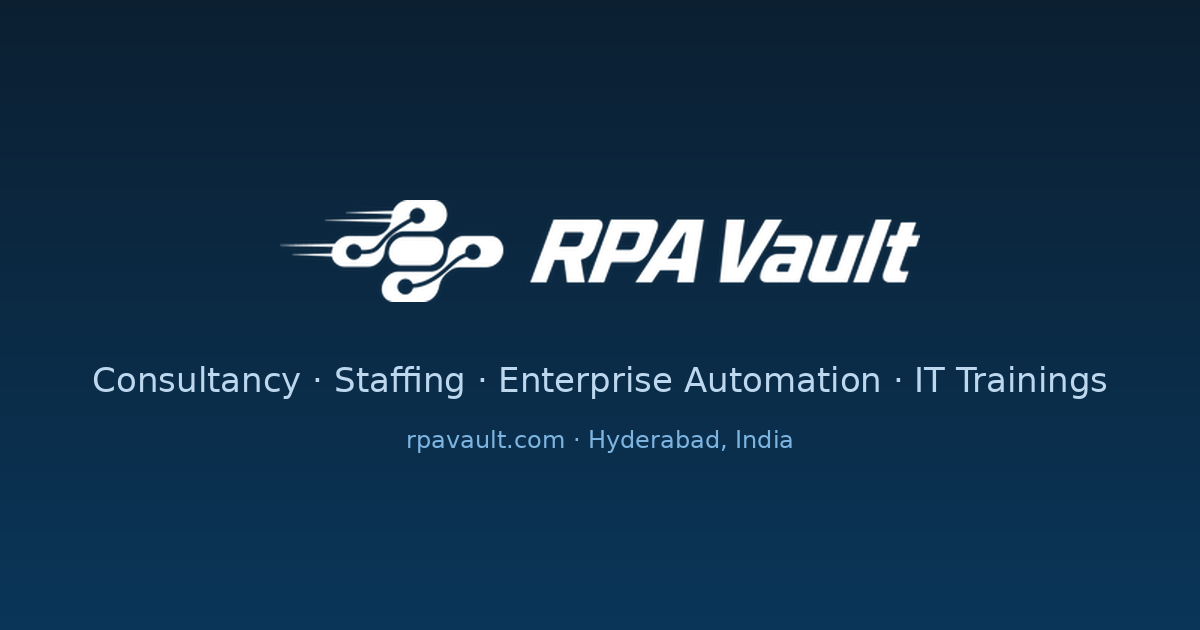
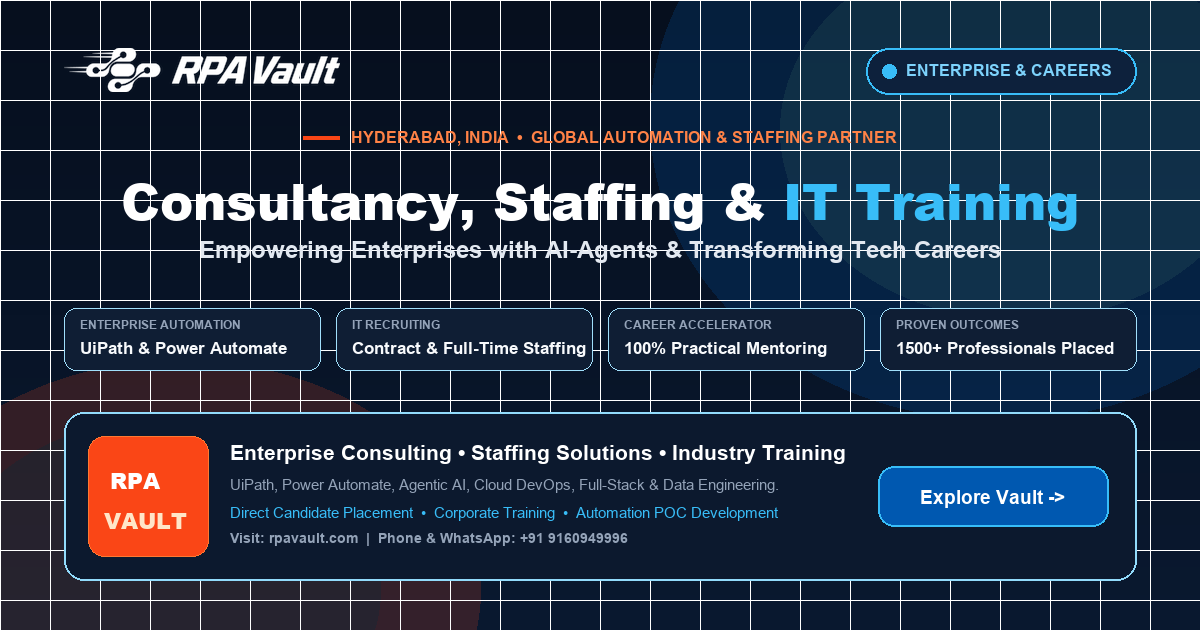
feat(og-image): add dedicated WhatsApp OG share cards for chat and site-wide

diff --git a/_includes/layouts/base.html b/_includes/layouts/base.html
@@ -10,7 +10,7 @@
   {% set rawShareImage = "/assets/images/courses/" + course_slug + ".jpg" %}
 {% endif %}
 {% if not rawShareImage %}
-  {% set rawShareImage = "/assets/images/og-image.png" %}
+  {% set rawShareImage = "/assets/images/og-image.jpg" %}
 {% endif %}
 {# Convert any .webp or .svg image to .jpg for WhatsApp & social Open Graph crawlers #}
 {% set shareImage = rawShareImage | replace('.webp', '.jpg') | replace('.svg', '.png') %}
@@ -50,6 +50,8 @@
 <meta property="og:image:width" content="1200">
 <meta property="og:image:height" content="630">
 <meta property="og:image:alt" content="{{ pageTitle }}">
+<meta itemprop="image" content="{{ absoluteShareImage }}">
+<link rel="image_src" href="{{ absoluteShareImage }}">
 <meta name="twitter:card" content="summary_large_image">
 <meta name="twitter:title" content="{{ pageTitle }}">
 <meta name="twitter:description" content="{{ pageDesc }}">

diff --git a/chatbot/index.html b/chatbot/index.html
@@ -8,7 +8,7 @@ seo_description: Talk with RPAVault AI. Get instant answers on Enterprise Automa
 canonical_url: https://rpavault.com/chat/
 keywords: RPAVault AI, RPA chatbot, UiPath career counselor, Agentic AI training, RPA course fees, IT career transition guidance, enterprise automation consulting, Hyderabad
 og_type: website
-og_image: /assets/images/og-image.png
+og_image: /assets/images/og-chat.jpg
 schema_ld: |
   {
     "@context": "https://schema.org",

diff --git a/scripts/generate_og_chat.py b/scripts/generate_og_chat.py
@@ -1,0 +1,185 @@
+import os
+from PIL import Image, ImageDraw, ImageFont
+
+def generate_og_chat():
+    width = 1200
+    height = 630
+    
+    # 1. Base image with gradient
+    img = Image.new("RGBA", (width, height), (6, 15, 30, 255))
+    draw = ImageDraw.Draw(img)
+
+    # Vertical gradient
+    for y in range(height):
+        r = int(6 + (10 - 6) * (y / height))
+        g = int(15 + (25 - 15) * (y / height))
+        b = int(30 + (48 - 30) * (y / height))
+        draw.line([(0, y), (width, y)], fill=(r, g, b, 255))
+
+    # Glow spheres
+    # Top-right blue/cyan glow
+    glow_blue = Image.new("RGBA", (width, height), (0, 0, 0, 0))
+    gb_draw = ImageDraw.Draw(glow_blue)
+    gb_draw.ellipse([650, -180, 1350, 420], fill=(0, 88, 176, 55))
+    gb_draw.ellipse([780, -60, 1260, 320], fill=(56, 189, 248, 45))
+    img = Image.alpha_composite(img, glow_blue)
+
+    # Bottom-left emerald & cyan glow (representing live online chat status)
+    glow_green = Image.new("RGBA", (width, height), (0, 0, 0, 0))
+    gg_draw = ImageDraw.Draw(glow_green)
+    gg_draw.ellipse([-120, 360, 480, 820], fill=(16, 185, 129, 35))
+    gg_draw.ellipse([-60, 420, 380, 760], fill=(56, 189, 248, 30))
+    img = Image.alpha_composite(img, glow_green)
+
+    draw = ImageDraw.Draw(img)
+
+    # Grid lines pattern
+    for x in range(0, width, 50):
+        draw.line([(x, 0), (x, height)], fill=(255, 255, 255, 7))
+    for y in range(0, height, 50):
+        draw.line([(0, y), (width, y)], fill=(255, 255, 255, 7))
+
+    # Fonts
+    font_dir = "/System/Library/Fonts/Supplemental/"
+    font_arial_bold = font_dir + "Arial Bold.ttf"
+    font_arial_black = font_dir + "Arial Black.ttf"
+    font_arial_regular = font_dir + "Arial.ttf"
+
+    f_sub = ImageFont.truetype(font_arial_bold, 16)
+    f_title1 = ImageFont.truetype(font_arial_black, 52)
+    f_tagline = ImageFont.truetype(font_arial_bold, 24)
+    f_box_title = ImageFont.truetype(font_arial_bold, 21)
+    f_box_sub = ImageFont.truetype(font_arial_regular, 15)
+    f_badge = ImageFont.truetype(font_arial_bold, 16)
+    f_btn = ImageFont.truetype(font_arial_bold, 19)
+
+    # 2. Add RPAVault Logo at Top Left
+    logo_path = "assets/images/logo-rpavault-white.png"
+    if os.path.exists(logo_path):
+        logo = Image.open(logo_path).convert("RGBA")
+        w, h = logo.size
+        new_h = 44
+        new_w = int(w * (new_h / h))
+        logo = logo.resize((new_w, new_h), Image.Resampling.LANCZOS)
+        img.paste(logo, (64, 48), logo)
+    else:
+        draw.text((64, 48), "RPAVAULT", fill=(255, 255, 255), font=f_title1)
+
+    # 3. Online 24/7 Live AI Badge at top right
+    badge_w = 300
+    badge_x = width - 64 - badge_w
+    badge_y = 48
+    badge_h = 46
+    draw.rounded_rectangle([badge_x, badge_y, badge_x + badge_w, badge_y + badge_h], radius=23, fill=(13, 33, 60), outline=(56, 189, 248), width=2)
+    # Emerald green live dot
+    draw.ellipse([badge_x + 16, badge_y + 16, badge_x + 30, badge_y + 30], fill=(16, 185, 129))
+    draw.text((badge_x + 40, badge_y + 13), "ONLINE • 24/7 AI COUNSELOR", fill=(125, 211, 252), font=f_badge)
+
+    # 4. Kicker Pill / Accent Line (Centered)
+    kicker_text = "ENTERPRISE AUTOMATION  •  IT CONSULTING  •  CAREER TRANSITION"
+    bbox_k = f_sub.getbbox(kicker_text)
+    k_w = bbox_k[2] - bbox_k[0]
+    line_w = 36
+    k_gap = 12
+    total_k_w = line_w + k_gap + k_w
+    start_k_x = (width - total_k_w) // 2
+    draw.line([(start_k_x, 137), (start_k_x + line_w, 137)], fill=(56, 189, 248), width=4)
+    draw.text((start_k_x + line_w + k_gap, 128), kicker_text, fill=(56, 189, 248), font=f_sub)
+
+    # 5. Main Headline: "Chat with RPAVault AI"
+    part1 = "Chat with "
+    part2 = "RPAVault AI"
+    bbox_p1 = f_title1.getbbox(part1)
+    bbox_p2 = f_title1.getbbox(part2)
+    p1_w = bbox_p1[2] - bbox_p1[0]
+    p2_w = bbox_p2[2] - bbox_p2[0]
+    head_w = p1_w + p2_w
+    start_h_x = (width - head_w) // 2
+
+    draw.text((start_h_x, 164), part1, fill=(255, 255, 255), font=f_title1)
+    draw.text((start_h_x + p1_w, 164), part2, fill=(56, 189, 248), font=f_title1)
+
+    # Subtitle: "Instant Guidance on UiPath, Power Automate, Course Fees & Roadmaps"
+    sub_text = "Instant Guidance on UiPath, Power Automate, Course Fees & Roadmaps"
+    bbox_sub = f_tagline.getbbox(sub_text)
+    sub_w = bbox_sub[2] - bbox_sub[0]
+    draw.text(((width - sub_w) // 2, 236), sub_text, fill=(226, 232, 240), font=f_tagline)
+
+    # 6. Feature Value Pills (4 evenly-spaced boxes matching 1072px width)
+    highlights = [
+        ("ENTERPRISE RPA", "UiPath & Power Automate"),
+        ("AGENTIC AI", "Multi-Agent Systems"),
+        ("CAREER TRANSITION", "Non-IT & Career Gaps"),
+        ("BATCH SCHEDULES", "Dates, Timings & Fees")
+    ]
+    
+    start_x = 64
+    pill_y = 308
+    p_w = 256
+    p_h = 62
+    gap = 16
+    
+    f_pill_lbl = ImageFont.truetype(font_arial_bold, 12)
+    f_pill_val = ImageFont.truetype(font_arial_bold, 17)
+    
+    for i, (tag, val) in enumerate(highlights):
+        px = start_x + i * (p_w + gap)
+        # Pill background
+        draw.rounded_rectangle([px, pill_y, px + p_w, pill_y + p_h], radius=12, fill=(15, 30, 52), outline=(56, 189, 248, 120), width=1)
+        # Label
+        draw.text((px + 16, pill_y + 10), tag, fill=(148, 163, 184), font=f_pill_lbl)
+        # Value
+        draw.text((px + 16, pill_y + 30), val, fill=(248, 250, 252), font=f_pill_val)
+
+    # 7. Action Card at Bottom (width 1072)
+    box_x = 64
+    box_y = 412
+    box_w = 1072
+    box_h = 168
+    draw.rounded_rectangle([box_x, box_y, box_x + box_w, box_y + box_h], radius=20, fill=(12, 25, 46), outline=(56, 189, 248, 140), width=2)
+
+    # Left Icon Badge inside box (Robot / Chat badge)
+    icon_box_x = box_x + 24
+    icon_box_y = box_y + 24
+    icon_box_w = 120
+    icon_box_h = 120
+    draw.rounded_rectangle([icon_box_x, icon_box_y, icon_box_x + icon_box_w, icon_box_y + icon_box_h], radius=16, fill=(16, 44, 82), outline=(56, 189, 248), width=2)
+    
+    f_chat_icon1 = ImageFont.truetype(font_arial_black, 26)
+    f_chat_icon2 = ImageFont.truetype(font_arial_bold, 14)
+    draw.text((icon_box_x + 20, icon_box_y + 28), "24/7", fill=(56, 189, 248), font=f_chat_icon1)
+    draw.text((icon_box_x + 13, icon_box_y + 68), "AI ASSISTANT", fill=(255, 255, 255), font=f_chat_icon2)
+
+    # Details Text inside box
+    draw.text((icon_box_x + 142, box_y + 28), "Get 1-on-1 Guidance & Syllabus Roadmaps Instantly", fill=(255, 255, 255), font=f_box_title)
+    draw.text((icon_box_x + 142, box_y + 64), "Trained on real course syllabus, placement records, fees & enterprise offerings.", fill=(148, 163, 184), font=f_box_sub)
+    draw.text((icon_box_x + 142, box_y + 92), "Zero Waiting Time  •  Curriculum Document Handover  •  Direct WhatsApp Option", fill=(56, 189, 248), font=f_box_sub)
+    draw.text((icon_box_x + 142, box_y + 118), "Live at: rpavault.com/chat", fill=(148, 163, 184), font=ImageFont.truetype(font_arial_bold, 14))
+
+    # CTA Button on Right side
+    btn_w = 230
+    btn_h = 60
+    btn_x = box_x + box_w - btn_w - 28
+    btn_y = box_y + 54
+    draw.rounded_rectangle([btn_x, btn_y, btn_x + btn_w, btn_y + btn_h], radius=16, fill=(0, 88, 176), outline=(56, 189, 248), width=2)
+    
+    bbox_btn = f_btn.getbbox("Chat with AI ->")
+    btn_tw = bbox_btn[2] - bbox_btn[0]
+    draw.text((btn_x + (btn_w - btn_tw) // 2, btn_y + 20), "Chat with AI ->", fill=(255, 255, 255), font=f_btn)
+
+    # Convert and save
+    final_img_rgba = img
+    final_img_rgb = img.convert("RGB")
+
+    out_png = "assets/images/og-chat.png"
+    out_jpg = "assets/images/og-chat.jpg"
+
+    final_img_rgba.save(out_png, "PNG")
+    # Save optimized JPEG (< 150KB, universally loaded by WhatsApp)
+    final_img_rgb.save(out_jpg, "JPEG", quality=90, optimize=True)
+
+    print(f"Generated {out_png} ({os.path.getsize(out_png)} bytes)")
+    print(f"Generated {out_jpg} ({os.path.getsize(out_jpg)} bytes)")
+
+if __name__ == "__main__":
+    generate_og_chat()

diff --git a/scripts/generate_og_sitewide.py b/scripts/generate_og_sitewide.py
@@ -1,0 +1,171 @@
+import os
+from PIL import Image, ImageDraw, ImageFont
+
+def generate_og_sitewide():
+    width = 1200
+    height = 630
+    
+    # 1. Base image with gradient
+    img = Image.new("RGBA", (width, height), (6, 15, 30, 255))
+    draw = ImageDraw.Draw(img)
+
+    for y in range(height):
+        r = int(6 + (10 - 6) * (y / height))
+        g = int(15 + (25 - 15) * (y / height))
+        b = int(30 + (48 - 30) * (y / height))
+        draw.line([(0, y), (width, y)], fill=(r, g, b, 255))
+
+    # Glow spheres
+    glow_blue = Image.new("RGBA", (width, height), (0, 0, 0, 0))
+    gb_draw = ImageDraw.Draw(glow_blue)
+    gb_draw.ellipse([650, -180, 1350, 420], fill=(0, 88, 176, 55))
+    gb_draw.ellipse([780, -60, 1260, 320], fill=(56, 189, 248, 45))
+    img = Image.alpha_composite(img, glow_blue)
+
+    glow_orange = Image.new("RGBA", (width, height), (0, 0, 0, 0))
+    go_draw = ImageDraw.Draw(glow_orange)
+    go_draw.ellipse([-120, 360, 480, 820], fill=(250, 70, 22, 45))
+    go_draw.ellipse([-60, 420, 380, 760], fill=(255, 120, 50, 30))
+    img = Image.alpha_composite(img, glow_orange)
+
+    draw = ImageDraw.Draw(img)
+
+    # Grid lines pattern
+    for x in range(0, width, 50):
+        draw.line([(x, 0), (x, height)], fill=(255, 255, 255, 7))
+    for y in range(0, height, 50):
+        draw.line([(0, y), (width, y)], fill=(255, 255, 255, 7))
+
+    # Fonts
+    font_dir = "/System/Library/Fonts/Supplemental/"
+    font_arial_bold = font_dir + "Arial Bold.ttf"
+    font_arial_black = font_dir + "Arial Black.ttf"
+    font_arial_regular = font_dir + "Arial.ttf"
+
+    f_sub = ImageFont.truetype(font_arial_bold, 16)
+    f_title1 = ImageFont.truetype(font_arial_black, 50)
+    f_tagline = ImageFont.truetype(font_arial_bold, 24)
+    f_box_title = ImageFont.truetype(font_arial_bold, 21)
+    f_box_sub = ImageFont.truetype(font_arial_regular, 15)
+    f_badge = ImageFont.truetype(font_arial_bold, 16)
+    f_btn = ImageFont.truetype(font_arial_bold, 19)
+
+    # 2. Add RPAVault Logo at Top Left
+    logo_path = "assets/images/logo-rpavault-white.png"
+    if os.path.exists(logo_path):
+        logo = Image.open(logo_path).convert("RGBA")
+        w, h = logo.size
+        new_h = 44
+        new_w = int(w * (new_h / h))
+        logo = logo.resize((new_w, new_h), Image.Resampling.LANCZOS)
+        img.paste(logo, (64, 48), logo)
+
+    # 3. Badge at top right
+    badge_w = 270
+    badge_x = width - 64 - badge_w
+    badge_y = 48
+    badge_h = 46
+    draw.rounded_rectangle([badge_x, badge_y, badge_x + badge_w, badge_y + badge_h], radius=23, fill=(13, 33, 60), outline=(56, 189, 248), width=2)
+    draw.ellipse([badge_x + 16, badge_y + 16, badge_x + 30, badge_y + 30], fill=(56, 189, 248))
+    draw.text((badge_x + 40, badge_y + 13), "ENTERPRISE & CAREERS", fill=(125, 211, 252), font=f_badge)
+
+    # 4. Kicker
+    kicker_text = "HYDERABAD, INDIA  •  GLOBAL AUTOMATION & STAFFING PARTNER"
+    bbox_k = f_sub.getbbox(kicker_text)
+    k_w = bbox_k[2] - bbox_k[0]
+    line_w = 36
+    k_gap = 12
+    total_k_w = line_w + k_gap + k_w
+    start_k_x = (width - total_k_w) // 2
+    draw.line([(start_k_x, 137), (start_k_x + line_w, 137)], fill=(250, 70, 22), width=4)
+    draw.text((start_k_x + line_w + k_gap, 128), kicker_text, fill=(255, 130, 70), font=f_sub)
+
+    # 5. Main Headline: "Consultancy, Staffing & IT Training"
+    part1 = "Consultancy, Staffing & "
+    part2 = "IT Training"
+    bbox_p1 = f_title1.getbbox(part1)
+    bbox_p2 = f_title1.getbbox(part2)
+    p1_w = bbox_p1[2] - bbox_p1[0]
+    p2_w = bbox_p2[2] - bbox_p2[0]
+    head_w = p1_w + p2_w
+    start_h_x = (width - head_w) // 2
+
+    draw.text((start_h_x, 164), part1, fill=(255, 255, 255), font=f_title1)
+    draw.text((start_h_x + p1_w, 164), part2, fill=(56, 189, 248), font=f_title1)
+
+    # Subtitle
+    sub_text = "Empowering Enterprises with AI-Agents & Transforming Tech Careers"
+    bbox_sub = f_tagline.getbbox(sub_text)
+    sub_w = bbox_sub[2] - bbox_sub[0]
+    draw.text(((width - sub_w) // 2, 236), sub_text, fill=(226, 232, 240), font=f_tagline)
+
+    # 6. Feature Value Pills (4 evenly-spaced boxes matching 1072px width)
+    highlights = [
+        ("ENTERPRISE AUTOMATION", "UiPath & Power Automate"),
+        ("IT RECRUITING", "Contract & Full-Time Staffing"),
+        ("CAREER ACCELERATOR", "100% Practical Mentoring"),
+        ("PROVEN OUTCOMES", "1500+ Professionals Placed")
+    ]
+    
+    start_x = 64
+    pill_y = 308
+    p_w = 256
+    p_h = 62
+    gap = 16
+    
+    f_pill_lbl = ImageFont.truetype(font_arial_bold, 12)
+    f_pill_val = ImageFont.truetype(font_arial_bold, 17)
+    
+    for i, (tag, val) in enumerate(highlights):
+        px = start_x + i * (p_w + gap)
+        draw.rounded_rectangle([px, pill_y, px + p_w, pill_y + p_h], radius=12, fill=(15, 30, 52), outline=(56, 189, 248, 120), width=1)
+        draw.text((px + 16, pill_y + 10), tag, fill=(148, 163, 184), font=f_pill_lbl)
+        draw.text((px + 16, pill_y + 30), val, fill=(248, 250, 252), font=f_pill_val)
+
+    # 7. Bottom Card
+    box_x = 64
+    box_y = 412
+    box_w = 1072
+    box_h = 168
+    draw.rounded_rectangle([box_x, box_y, box_x + box_w, box_y + box_h], radius=20, fill=(12, 25, 46), outline=(56, 189, 248, 140), width=2)
+
+    icon_box_x = box_x + 24
+    icon_box_y = box_y + 24
+    icon_box_w = 120
+    icon_box_h = 120
+    draw.rounded_rectangle([icon_box_x, icon_box_y, icon_box_x + icon_box_w, icon_box_y + icon_box_h], radius=16, fill=(250, 70, 22), outline=(255, 120, 50), width=1)
+    
+    f_vault = ImageFont.truetype(font_arial_black, 22)
+    f_hub = ImageFont.truetype(font_arial_bold, 14)
+    draw.text((icon_box_x + 22, icon_box_y + 28), "RPA", fill=(255, 255, 255), font=f_vault)
+    draw.text((icon_box_x + 16, icon_box_y + 68), "VAULT", fill=(255, 230, 200), font=f_vault)
+
+    draw.text((icon_box_x + 142, box_y + 28), "Enterprise Consulting • Staffing Solutions • Industry Training", fill=(255, 255, 255), font=f_box_title)
+    draw.text((icon_box_x + 142, box_y + 64), "UiPath, Power Automate, Agentic AI, Cloud DevOps, Full-Stack & Data Engineering.", fill=(148, 163, 184), font=f_box_sub)
+    draw.text((icon_box_x + 142, box_y + 92), "Direct Candidate Placement  •  Corporate Training  •  Automation POC Development", fill=(56, 189, 248), font=f_box_sub)
+    draw.text((icon_box_x + 142, box_y + 118), "Visit: rpavault.com  |  Phone & WhatsApp: +91 9160949996", fill=(148, 163, 184), font=ImageFont.truetype(font_arial_bold, 14))
+
+    btn_w = 230
+    btn_h = 60
+    btn_x = box_x + box_w - btn_w - 28
+    btn_y = box_y + 54
+    draw.rounded_rectangle([btn_x, btn_y, btn_x + btn_w, btn_y + btn_h], radius=16, fill=(0, 88, 176), outline=(56, 189, 248), width=2)
+    
+    bbox_btn = f_btn.getbbox("Explore Vault ->")
+    btn_tw = bbox_btn[2] - bbox_btn[0]
+    draw.text((btn_x + (btn_w - btn_tw) // 2, btn_y + 20), "Explore Vault ->", fill=(255, 255, 255), font=f_btn)
+
+    final_img_rgba = img
+    final_img_rgb = img.convert("RGB")
+
+    out_png = "assets/images/og-image.png"
+    out_jpg = "assets/images/og-image.jpg"
+
+    final_img_rgba.save(out_png, "PNG")
+    final_img_rgb.save(out_jpg, "JPEG", quality=90, optimize=True)
+
+    print(f"Generated site-wide {out_png} ({os.path.getsize(out_png)} bytes)")
+    print(f"Generated site-wide {out_jpg} ({os.path.getsize(out_jpg)} bytes)")
+
+if __name__ == "__main__":
+    generate_og_sitewide()
